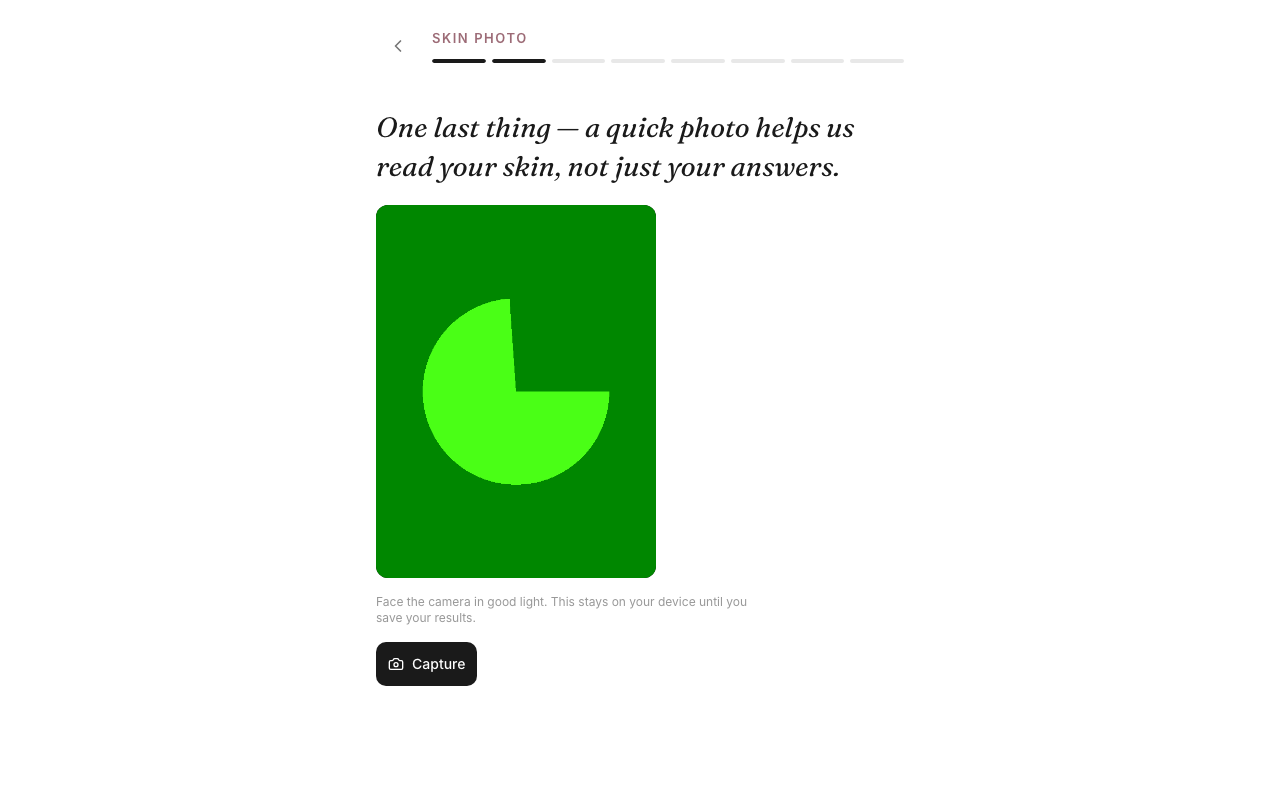
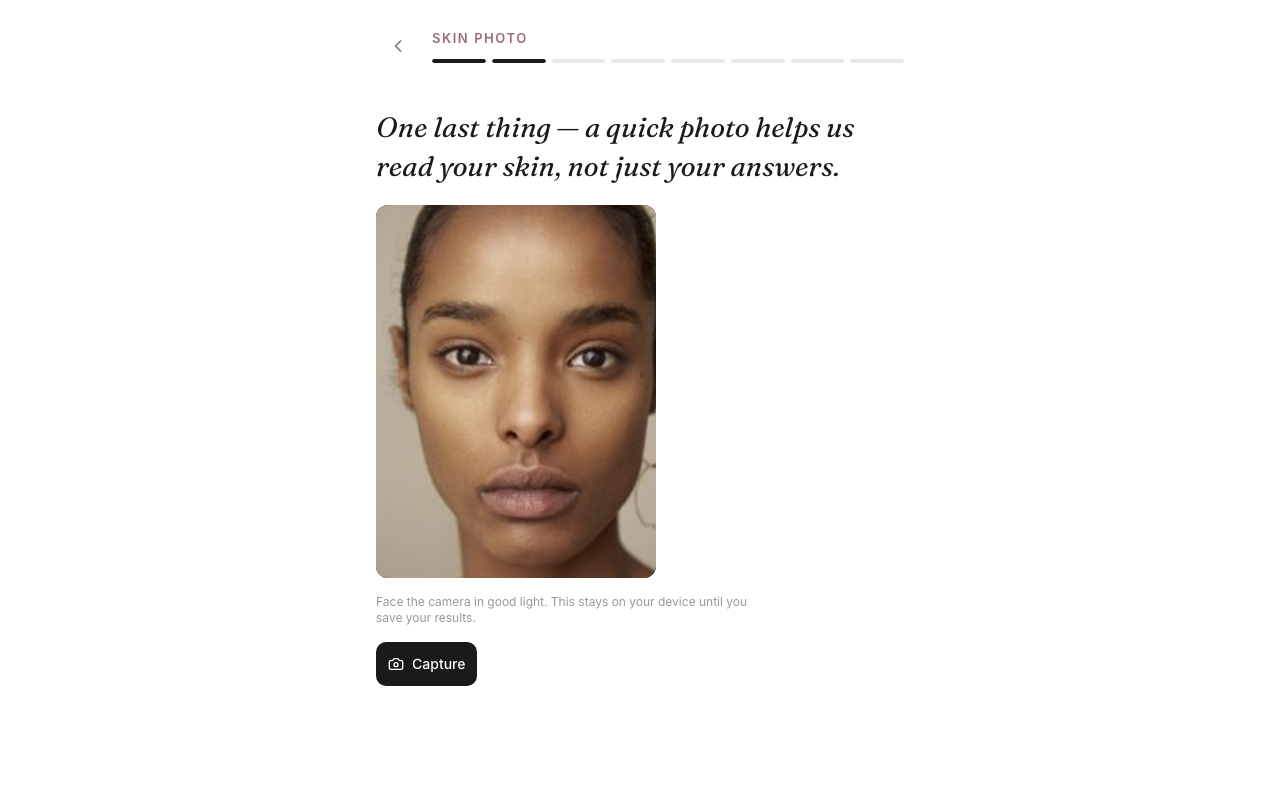
docs(design): remaining before states (retake, under-18 blocked, delete confirm, desktop results with a face); tracker G03 evidence

Changed region(s): [[0.2812, 0.25, 0.5312, 0.75]]

diff --git a/tests/design/pages.shots.ts b/tests/design/pages.shots.ts
@@ -122,6 +122,43 @@ test("check flow: questions, under 18, photo step, retake", async ({ page }) => 
   await page.getByRole("button", { name: "Female", exact: true }).click();
   await expect(page.getByText("You chose under 18. Is that right?")).toBeVisible();
   await shots(page, "flow-under18-confirm");
+  await page.getByRole("button", { name: /Yes, I.m under 18/ }).click();
+  await expect(page.getByText(/isn't available yet for users under 18/)).toBeVisible();
+  await shots(page, "flow-under18-blocked");
+});
+
+test("check flow: a dark photo asks for a retake", async ({ page }) => {
+  test.skip(test.info().project.name === "1280", "the desktop takes photos from the camera, not a file");
+  await signIn(page, U.returning!.phoneNumber);
+  await page.goto("/skin-check");
+  const file = page.locator('input[type="file"]');
+  await expect(file).toBeAttached({ timeout: 30_000 });
+  const dataUrl = await page.evaluate(() => {
+    const c = document.createElement("canvas");
+    c.width = 800;
+    c.height = 1000;
+    const g = c.getContext("2d")!;
+    g.fillStyle = "rgb(4,4,4)";
+    g.fillRect(0, 0, c.width, c.height);
+    return c.toDataURL("image/png");
+  });
+  const dark = { name: "dark.png", mimeType: "image/png", buffer: Buffer.from(dataUrl.split(",")[1]!, "base64") };
+  await file.setInputFiles(dark);
+  await expect(page.getByRole("button", { name: "Retake" })).toBeVisible();
+  await shots(page, "flow-retake");
+  for (let i = 0; i < 5 && !(await page.getByRole("button", { name: "Use this photo anyway" }).isVisible()); i++) {
+    await page.getByRole("button", { name: "Retake" }).click();
+    await file.setInputFiles(dark);
+    await page.waitForTimeout(800);
+  }
+  await shots(page, "flow-retake-use-anyway");
+});
+
+test("account: delete confirmation open (not submitted)", async ({ page }) => {
+  await signIn(page, U.withdraw!.phoneNumber);
+  await page.getByRole("button", { name: "Delete my account and data" }).click();
+  await expect(page.getByLabel(/to confirm/)).toBeVisible();
+  await shots(page, "account-delete-confirm");
 });
 
 // Phone and tablet choose a photo file; the desktop takes a frame from the fake
@@ -130,7 +167,9 @@ test("check flow: questions, under 18, photo step, retake", async ({ page }) => 
 const FLOW_USER = { "390": U.capture!, "768": U.scan!, "1280": U.empty! };
 test("check flow to results", async ({ page }) => {
   test.setTimeout(600_000);
-  await signIn(page, FLOW_USER[test.info().project.name as keyof typeof FLOW_USER].phoneNumber);
+  // FLOW_USER=<seed key> picks another user with no checks for a rerun on the same stack.
+  const user = process.env.FLOW_USER ? U[process.env.FLOW_USER]! : FLOW_USER[test.info().project.name as keyof typeof FLOW_USER];
+  await signIn(page, user.phoneNumber);
   await page.goto("/skin-check");
   const name = page.locator('input[type="text"]').first();
   await name.fill("Tester");

diff --git a/tests/design/playwright.config.ts b/tests/design/playwright.config.ts
@@ -16,14 +16,17 @@ const config = {
   projects: [
     { name: "390", use: { ...phone, browserName: "chromium", viewport: { width: 390, height: 844 } } },
     { name: "768", use: { ...devices["iPad Mini"], browserName: "chromium", viewport: { width: 768, height: 1024 } } },
-    // A fake webcam: the desktop photo step uses getUserMedia, not a file input.
+    // A fake webcam showing the fixture face: the desktop photo step uses
+// getUserMedia, not a file input. Make the video once (gitignored):
+//   ffmpeg -loop 1 -i ../skin-scan/fixtures/input_face.png -t 1 -r 10 \
+//     -vf "scale=720:960:force_original_aspect_ratio=increase,crop=720:960" -pix_fmt yuv420p .local-stack/fake-face.y4m
     {
       name: "1280",
       use: {
         ...devices["Desktop Chrome"],
         viewport: { width: 1280, height: 800 },
         permissions: ["camera"],
-        launchOptions: { args: ["--use-fake-ui-for-media-stream", "--use-fake-device-for-media-stream"] },
+        launchOptions: { args: ["--use-fake-ui-for-media-stream", "--use-fake-device-for-media-stream", "--use-file-for-fake-video-capture=.local-stack/fake-face.y4m"] },
       },
     },
   ],

diff --git a/docs/PROJECT_SKIN_EXECUTION_TRACKER.md b/docs/PROJECT_SKIN_EXECUTION_TRACKER.md
@@ -171,7 +171,7 @@ Execution order (TD-04, owner 2026-10-03): Phase 0 deploy is paused after C1. Fe
 | F11 | F | Context / Gemini | Fallback path: a Gemini call or none can differ by a hidden answer | When evaluateSafety throws (rules off, or no rule field answered), the context path gives the fixed fallback with no Gemini call. {skin_type, current_products:[prescription]} gets a call while {skin_type} does not. Gemini input is the same; whether a call happens differs. In production builds rules are off, so every user gets the fallback. | DONE | CHECKED LOCAL | P3 | F08, E09 | TD-17 | Unassigned | Gemini/Context Engineer | lib/context/chat.ts, lib/rules/input.ts | Decision + test | Owner brief 2026-10-06: a check with no questionnaire rule answers gets the fixed reply plus 'Finish the Skin Check questions for this check, so Echo can help with your questions.' (recorded no_answers); other safety errors keep the plain fixed reply. Tests in context-route. Final run at 9cc7006 (2026-10-06): npm run test:all exit 0: typecheck 0, lint clean, test:local (unit 1911 passed / 64 skipped in 84 files; stack 15 files 63/63), test:browser 29/29, next build exit 0. | 7408e84 |  |  | None. | GEMINI CONTEXT LAYER | 2026-10-06 | Second security review D(b). 2026-10-05: with the split switch (d8f7e50) this now applies in production: a check with no rule-field answer gets the fixed fallback. |
 | G01 | G | Dashboard | Longitudinal dashboard | Latest state, history, comparable change only, confidence, routine, adherence, evidence, privacy controls. | DONE | CHECKED LOCAL | P1 | A13, C02, D02 |  | Unassigned | Frontend/Dashboard Engineer |  | Approved design + tests + E2E | lane/dashboard merged; O-D1/O-D3/O-D6, K-1, G-1, R-5 fixed. Final run at 57b63c8: typecheck 0, lint clean, next build exit 0, npm run test:local exit 0 (unit 1645 passed / 56 skipped in 81 files; stack 13 files 56/56), npm run test:browser 29/29. | merge c3cf0d6; a027ce5, ff29605, 457c1e8, 3890924 | Not started. |  | O-D2 (trend display) decided later. | DASHBOARD | 2026-10-03 |  |
 | G02 | G | Dashboard | Product-response timeline UX | Routine events next to observations, no causal claims. | NOT STARTED | NOT CHECKED | P2 | E03, G01, G03 | D-12 (LOCKED), TD-24 | Unassigned | Frontend/Dashboard Engineer | app/(marketing)/dashboard, components/dashboard | Design reviewed against D-12 |  |  | Not started. |  | Built as part of G03 step 3.4 (one timeline of checks and routine events). | DASHBOARD | 2026-10-05 | Unblocked by TD-24 (2): checks and routine events on one timeline; no causal wording (D-12 unchanged). |
-| G03 | G | Dashboard | Full UI redesign (brief 2026-10-05) | One connected product on phone, tablet and desktop: Shopify-store brand, design system, page map, app shell with bottom bar (phone) and side bar (wider), Home dashboard, Checks, timeline, Routine, Echo, Account, check flow; designed loading, empty and error states. Steps: 1 audit, 2 design and two preview directions (owner chooses), 3 build, 4 review. | IN PROGRESS | NOT CHECKED | P1 | G01, G02, E03 | TD-24 | Owner | Frontend/Dashboard Engineer (lead) | app/, components/, docs/design/ | Step 1-2: docs/design/ (audit, system, map, before and options screenshots); step 3: commits with unit, typecheck, lint, browser tests; step 4: after screenshots, three reviews, npm run test:all |  |  | Steps 1-2 done 2026-10-05: docs/design/audit.md, system.md (store theme values and source), map.md, before/ (93 shots at 390/768/1280), options/ (directions A and B at /preview/a and /preview/b, 10 states x 3 widths); preview copy 154 strings, bannedWordsIn 0; tsc and lint clean. | Owner chooses A or B. Owner questions: kept-photo thumbnail needs a new photo-read route (privacy); results screen shows /100 scores and Dryness unlike the dashboard. | Stop for the owner's choice. | DASHBOARD | 2026-10-05 | Branch redesign/ui (worktree skin-check-redesign), fast-forwarded into longitudinal-platform at the end. Out of scope: lib/contracts, lib/longitudinal, lib/rules, lib/context, safety filters, Gemini code, Firestore rules, consent and deletion logic, scan pipeline. |
+| G03 | G | Dashboard | Full UI redesign (brief 2026-10-05) | One connected product on phone, tablet and desktop: Shopify-store brand, design system, page map, app shell with bottom bar (phone) and side bar (wider), Home dashboard, Checks, timeline, Routine, Echo, Account, check flow; designed loading, empty and error states. Steps: 1 audit, 2 design and two preview directions (owner chooses), 3 build, 4 review. | IN PROGRESS | NOT CHECKED | P1 | G01, G02, E03 | TD-24 | Owner | Frontend/Dashboard Engineer (lead) | app/, components/, docs/design/ | Step 1-2: docs/design/ (audit, system, map, before and options screenshots); step 3: commits with unit, typecheck, lint, browser tests; step 4: after screenshots, three reviews, npm run test:all | docs/design/audit.md, system.md (store theme values and source), map.md, before/ (every page and state at 390/768/1280), options/ (directions A and B at /preview/a and /preview/b, 10 states x 3 widths); preview copy 154 strings, bannedWordsIn 0; tsc and lint clean | 0fb0a1b, dc1a23d, 3a91dcc, this commit | Steps 1-2 done 2026-10-05. Preview 404 in production is guarded in code, not yet build-verified (step 3). | Owner chooses A or B. Owner questions: kept-photo thumbnail needs a new photo-read route (privacy); results screen shows /100 scores and Dryness unlike the dashboard. | Stop for the owner's choice. | DASHBOARD | 2026-10-05 | Branch redesign/ui (worktree skin-check-redesign), fast-forwarded into longitudinal-platform at the end. Out of scope: lib/contracts, lib/longitudinal, lib/rules, lib/context, safety filters, Gemini code, Firestore rules, consent and deletion logic, scan pipeline. |
 | H01 | H | Privacy / Safety | Consent / retention / deletion fan-out | Server-written consent ledger; erasure S3 -> Firestore -> Auth. | OWNER ACTION | CHECKED LOCAL | P0 | A04 | D-16 / D-17 (TD-08, TD-10) | Owner | Security/Privacy Reviewer | app/api/account/, lib/s3.ts, lib/s3-key.ts, lib/consent.ts, firestore.rules lane:privacy, DeleteAccount.tsx | Ledger + erasure route + tests + live verification | Built (lane privacy, merged 1dd4acf): server-written consentLedger (owner read-only rules); presign records image_retention; erase route (fresh sign-in, preflight, revoke -> S3 prefix with a separate erase credential pair -> Firestore recursiveDelete -> Auth; receipt with no uid); delete section on /account. After merge: R5 dev guard refuses real AWS erase keys (9b534e7); erasure proven to remove routineEvents (2f00819) and the under-18 record, and the tab marker is cleared (bc45a01, owner TD-10); processing consent recorded per scan (a52f36d, step 14, R3/R4; recovery re-send fix 2d0d1a1 from security review). Tests: privacy-ledger, privacy-erase, privacy-s3-erase, privacy-delete-account, privacy-processing-consent, firestore-rules-privacy, privacy.e2e. Final run 2026-10-04 at bff6e25: npm run test:local exit 0 (unit 597 passed / 41 skipped in 53 files; stack 41/41: rules 24 + routine 8 + privacy 5, e2e routine, privacy, local-stack, capture); typecheck 0; lint clean; next build exit 0. | 52cbbbc, 9808fd5, bbaa10a, 2155645, f8f2b64, 72b293d; merge 1dd4acf; 9b534e7, 2f00819, bc45a01, a52f36d, 2d0d1a1, bff6e25 | Local only (S3Mock, emulators). No production erase principal exists. | Owner: erase IAM principal and policy (decision 11a, privacy T4); retention period (decision 5, privacy T5: IMAGE_RETENTION_PERIOD_DAYS is null). | Owner creates the erase principal (ListBucket on users/*, DeleteObject); re-check versioning and Object Lock before go-live; decide the retention number, then an S3 lifecycle rule (infra). Writes after erase: H04. Final processing copy: H06. | PRIVACY/SAFETY | 2026-10-04 | H01_S3_ERASURE_READINESS.md (4631de5): versioning never enabled, no Object Lock, no lifecycle. |
 | H02 | H | Privacy / Safety | 18+ gate / safety UX | Server-side 18+ attestation; re-confirm sensitive answers per scan. | DONE | CHECKED LOCAL | P1 |  | D-19 (TD-08, TD-11, TD-12) | Owner | Frontend/Dashboard Engineer | app/api/account/attestation, app/api/account/_ledger.ts, app/api/skin-scan/*, app/api/skin-check/chat, lib/useSkinCheckFlow.ts, SkinCheckFlow.tsx, PhoneAuthStep.tsx | Gate + tests | Built (lane privacy 1dd4acf, held gates bdc462f with owner-approved R-A test blocks): attestation route; sticky under-18 (decision 4) refused 403 UNDER_18 on upload, scan (preamble) and chat; chat also needs an attestation; no record degrades on upload/scan (decision 3a); phone stored as "verified"; current_products and female_skin_context re-confirmed every scan, blank. After merge: confirm step "You chose under 18. Is that right?" before anything is recorded (edc4451, TD-12); "Last time you said: ..." hint (c2834cf, R9). Tests: privacy-attestation, privacy-scan-gate, privacy-chat-gate, privacy-age-memory, privacy-reconfirm, privacy-phone, skin-check-flow-navigation (R6). Final run 2026-10-04 at bff6e25: npm run test:local exit 0 (unit 597 passed / 41 skipped in 53 files; stack 41/41: rules 24 + routine 8 + privacy 5, e2e routine, privacy, local-stack, capture); typecheck 0; lint clean; next build exit 0. Security review: no bypass found beyond the documented decision-3a degrade and self-attestation limits. | 743c24c, 4464282, a9719a2, a22a317, 72b293d, d46d6a5, f15c24a; merges 1dd4acf, bdc462f; edc4451, c2834cf | Local only. Self-attestation: a new tab defeats the device marker; the server record is sticky. TD-11 decided 2026-10-04. |  | Nothing left in this row. Follow-on rows: H05 support tool (deploy blocker), H07 cross-route test, H10 require attestation later. Deploy with A13. | PRIVACY/SAFETY | 2026-10-04 | Erasure resets the sticky state by owner decision (TD-10): a recorded minor can erase and start a new account. |
 | H03 | H | Privacy / Safety | In-region prompt/data audit | What reaches Gemini, where processed/logged; consent and minimization. | OWNER ACTION | CHECKED LOCAL | P0 |  | PREFLIGHT G1 / D-14 (TD-08) | Owner | Security/Privacy Reviewer | lib/gemini.ts, lib/skin-check-format.ts, lib/echo-history-token.ts, app/api/account/consent, EchoPage.tsx | Field inventory + key ownership/tier + consent copy | Built (lane privacy, merged 1dd4acf; chat gate bdc462f): pin test of every field sent to Gemini (privacy-report section 5); removed name, age, gender, female_skin_context, phone fields, Dryness band, Pores, numeric scores, ids, consent fields, unknown keys; extraCaution flag as one fixed sentence; AI-share consent route and Echo prompt (DRAFT copy, local only), chat refuses 403 AI_CONSENT_REQUIRED. After merge: Echo history token v2 so pre-minimisation threads stop verifying (85c7b47, R-F); GEMINI_BOUNDARY.md names aligned (7e8071b, R-G). Tests: privacy-gemini-inventory, privacy-consent-route, privacy-chat-gate, echo-history-token. Final run 2026-10-04 at bff6e25: npm run test:local exit 0 (unit 597 passed / 41 skipped in 53 files; stack 41/41: rules 24 + routine 8 + privacy 5, e2e routine, privacy, local-stack, capture); typecheck 0; lint clean; next build exit 0. Security review (2026-10-04): no removed field reaches Gemini. Red team I02 fixes: 2ccd8fa, f91c471, 36476f7, 6f4fb8c, b037c2c, 36ab480, d5f9017, d379afa, 293c3dd, 3fc0dda, 2301e19, 57b63c8. | c468f1a, bae775f, 4b47292, 72b293d, f15c24a; merges 1dd4acf, bdc462f; 85c7b47, 7e8071b | Local only. Step 13 must not reach production before decision 6 and final copy. | Owner: G1 key project and tier (decision 6); final AI-share copy (decision 7a) -> H06. | Owner answers G1 and supplies copy (H06). Owner scope items H08 (Dryness self-report, gender inference). Clinical review of EXTRA_CAUTION_TRIGGERS under E05. | PRIVACY/SAFETY | 2026-10-04 | Known inferences: gender from male_skin_context; self-reported dryness from primary_concerns / skin_type. |

diff --git a/docs/design/audit.md b/docs/design/audit.md
@@ -45,12 +45,14 @@ What is wrong for the user, page by page, in plain words.
 
 - The back control is a bare chevron with no label. The top bar has no logo and no way to leave the flow.
 - Questions build up down the page and auto-advance after a tap. On a desktop each answer card sits in the 576px column with large gaps.
+- Retake (flow-retake-390.png, flow-retake-use-anyway-390.png): the reason is grey body text under a black box; "Use this photo anyway" appears after the set number of retakes with the same weight as Retake.
+- Under 18 blocked (flow-under18-blocked-*.png): one grey sentence inside an Echo bubble on an empty page, no way out except the unlabeled back chevron.
 - Under 18 confirm: the two choices are plain buttons with no visual difference between "change my answer" and "yes".
 - Photo step:
   - On a phone the preview is a 280px black box with a faint camera icon.
   - The consent checkbox and "Analyze my skin" sit under it. The relation between them is hard to see.
   - The retake reasons are plain grey text.
-- Desktop photo step: a live camera box and a Capture button, no file upload. When the photo checks fail ("We couldn't find a face"), the results screen still opens with the headline "Your skin, understood." above the error (flow-results-1280.png).
+- Desktop photo step: a live camera box and a Capture button, no file upload. When the photo has no face ("We couldn't find a face"), the results screen still opens with the headline "Your skin, understood." above the error (seen with a camera showing no face; the saved flow-results-1280.png is the normal case, with a face).
 - Results:
   - **It shows numbers the rest of the app hides.** Every reading has a score "/100", there is a large "12 /100" headline number, and a "Dryness" row.
     - The dashboard shows band words only and has no Dryness row ("a photo cannot measure it", components/dashboard/state.ts; tests/dashboard-copy.test.ts allows no digits except counts and dates).
@@ -126,6 +128,7 @@ What is wrong for the user, page by page, in plain words.
   - delete.
 
   The page mixes "account" with "history".
+- Delete (account-delete-confirm-*.png): the typed confirmation opens inline under the history list; the destructive button is not set apart from the rest of the page.
 - The +91 prefix box and the field have different corner radii and fills. The disabled "Send verification code" button is mid-grey with white text, which has low contrast.
 
 ## Wording that is unclear
